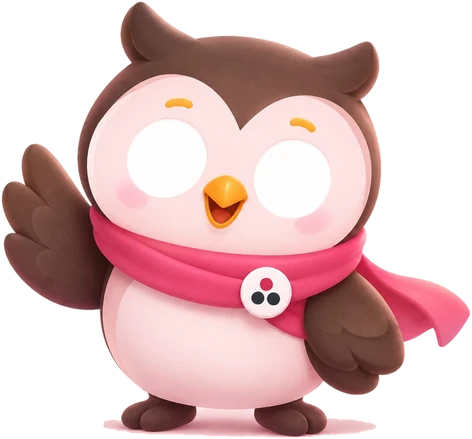
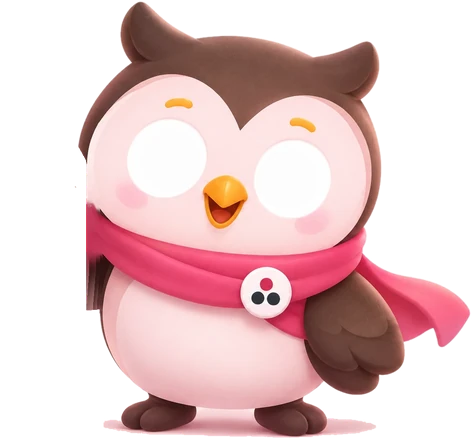
Owl: the raised wing moves (sways, waves, waves back on hover); one welcome on the home page (#144)
The raised wing is cut into its own layer (with the body behind it rebuilt) and pivots at its shoulder: a slow ready sway, a two-beat wave as an idle action and when cheering, a flap on hops, and a wave back when hovered. Home: the grey intro line under "Your queue" is removed so the owl's greeting is the one welcome, and the bubble's second line is body text, not a grey subtitle. Reduced motion: still.

Changed region(s): [[0.0, 0.3257, 0.2373, 0.7107]]

diff --git a/frontend/src/Mascot.tsx b/frontend/src/Mascot.tsx
@@ -1,6 +1,7 @@
 import { useEffect, useId, useRef, useState, type CSSProperties, type ReactNode } from "react";
 
 import owl from "./assets/mascot/owl.webp";
+import wing from "./assets/mascot/owl-wing.webp";
 import { ACTION_MS, idleDelay, lookAt, nextIdleAction, tiltToward, type IdleAction } from "./mascotState";
 
 // The owl image is 943 × 877 with its printed pupils painted out; the live pupils are drawn on top
@@ -13,13 +14,15 @@ const EYES = [
 const PUPIL_R = 51;
 const TRAVEL = 19;
 const LID = "#fde3e3";
+// The raised wing is its own layer (cut from the same image), so it can wave from its shoulder.
+const WING = { x: 0, y: 284, w: 209, h: 344 };
 
 const reducedMotion = () => typeof window !== "undefined" && !!window.matchMedia?.("(prefers-reduced-motion: reduce)").matches;
 
 /**
  * The TriVerity owl. It feels three-dimensional without a 3D model: it tilts toward the cursor with
- * the light shifting across it, casts a soft shadow, blinks, and plays a random idle action every
- * few seconds. Its pupils follow the cursor once it comes within reach. `cheer` (a changing key)
+ * the light shifting across it, casts a soft shadow, blinks, keeps its raised wing gently moving
+ * (and waves with it), and plays a random idle action every few seconds. Its pupils follow the cursor once it comes within reach. `cheer` (a changing key)
  * makes it hop with a burst of sparkles. Decorative: the words it says live in `children`.
  * Reduced motion: still, eyes ahead, no idle actions.
  */
@@ -92,14 +95,22 @@ export function Mascot({ size = 120, cheer, className = "", children, bubbleSide
     lastCheer.current = cheer;
     if (reducedMotion()) return;
     setBurst(count => count + 1);
-    setAction("hop");
-    const timer = window.setTimeout(() => setAction(null), ACTION_MS.hop);
+    setAction("wave");
+    const timer = window.setTimeout(() => setAction(null), ACTION_MS.wave);
     return () => window.clearTimeout(timer);
   }, [cheer]);
 
+  // Hover the owl and it waves back (not while it is already doing something).
+  const busy = useRef(false);
+  busy.current = action !== null;
+  function waveBack() {
+    if (busy.current || reducedMotion()) return;
+    setAction("wave");
+    window.setTimeout(() => setAction(current => current === "wave" ? null : current), ACTION_MS.wave);
+  }
   const height = Math.round(size * VIEW.h / VIEW.w);
   return <div className={`mascot bubble-${bubbleSide} ${className}`} style={{ "--mascot-w": `${size}px`, "--mascot-h": `${height}px` } as CSSProperties}>
-    <div className="mascot-stage" aria-hidden="true">
+    <div className="mascot-stage" aria-hidden="true" onPointerEnter={waveBack}>
       <span className="mascot-shadow" />
       <div ref={body} className={`mascot-body${action ? ` is-${action}` : ""}`}>
         <svg className="mascot-svg" viewBox={`0 0 ${VIEW.w} ${VIEW.h}`} width={size} height={height} focusable="false">
@@ -110,6 +121,7 @@ export function Mascot({ size = 120, cheer, className = "", children, bubbleSide
             </radialGradient>
           </defs>
           <image href={owl} width={VIEW.w} height={VIEW.h} />
+          <g className="mascot-wing"><image href={wing} x={WING.x} y={WING.y} width={WING.w} height={WING.h} /></g>
           {EYES.map((eye, n) => <g key={n} clipPath={`url(#${id}-eye${n})`}>
             <g className="mascot-glance"><g ref={node => { pupils.current[n] = node; }}>
               <circle cx={eye.pupil.x} cy={eye.pupil.y} r={PUPIL_R} fill={`url(#${id}-iris)`} />

diff --git a/frontend/src/styles.css b/frontend/src/styles.css
@@ -2306,6 +2306,18 @@ details.ruling-condition-group[open] > summary::before { transform: rotate(90deg
   .mascot-bubble { animation: mascot-bubble-in .45s .25s cubic-bezier(.3, 1.4, .5, 1) both; transform-origin: left center; }
   .mascot.bubble-left .mascot-bubble { transform-origin: right center; }
 }
+/* The raised wing pivots at its shoulder (image units): a slow "ready" sway, and a real wave. */
+.mascot-wing { transform-box: view-box; transform-origin: 196px 592px; }
+@media (prefers-reduced-motion: no-preference) {
+  .mascot-wing { animation: mascot-wing-ready 2.8s ease-in-out infinite; }
+  .mascot-body.is-wave .mascot-wing { animation: mascot-wing-wave 1.3s cubic-bezier(.4, 0, .3, 1); }
+  .mascot-body.is-hop .mascot-wing { animation: mascot-wing-flap .62s ease-out; }
+  .mascot-body.is-wave { animation: mascot-wave-body 1.3s ease-in-out; }
+}
+@keyframes mascot-wing-ready { 0%, 100% { rotate: 0deg; } 50% { rotate: -4deg; } }
+@keyframes mascot-wing-wave { 0% { rotate: 0deg; } 18% { rotate: -22deg; } 36% { rotate: -6deg; } 54% { rotate: -22deg; } 72% { rotate: -6deg; } 100% { rotate: 0deg; } }
+@keyframes mascot-wing-flap { 30% { rotate: -16deg; } 60% { rotate: 4deg; } 100% { rotate: 0deg; } }
+@keyframes mascot-wave-body { 20%, 60% { rotate: 2deg; } 100% { rotate: 0deg; } }
 @keyframes mascot-breathe { 0%, 100% { scale: 1 1; } 50% { scale: 1.012 1.018; } }
 @keyframes mascot-hop { 0% { translate: 0 0; scale: 1 1; } 18% { translate: 0 2%; scale: 1.06 .94; } 45% { translate: 0 -16%; scale: .97 1.04; } 75% { translate: 0 0; scale: 1.05 .95; } 100% { translate: 0 0; scale: 1 1; } }
 @keyframes mascot-shadow-hop { 45% { scale: .6 .6; opacity: .5; } }
@@ -2316,7 +2328,7 @@ details.ruling-condition-group[open] > summary::before { transform: rotate(90deg
   100% { opacity: 0; transform: rotate(calc(var(--n) * 45deg)) translateY(calc(var(--mascot-w) * -.55)) scale(1); } }
 @keyframes mascot-bubble-in { from { opacity: 0; scale: .85; } }
 .home-greeting .home-hello { font-size: 22px; }
-.home-greeting .home-hello-line { margin-top: 2px; }
+.home-greeting .home-hello-line { margin-top: 2px; color: var(--text); }
 /* The owl's cheer when a case is closed: bottom right, above the sticky bars; dismissible. */
 .mascot-toast { position: fixed; right: var(--space-5); bottom: var(--space-5); z-index: 40; display: flex; align-items: flex-end; gap: var(--space-2); max-width: min(520px, calc(100vw - 32px)); }
 .mascot-toast .mascot { align-items: flex-end; }

diff --git a/frontend/src/mascotState.ts b/frontend/src/mascotState.ts
@@ -2,10 +2,10 @@
 // says. Pure functions, so the behaviour is testable without a browser.
 
 /** Idle actions, played one at a time every few seconds while nothing else is happening. */
-export const IDLE_ACTIONS = ["blink", "double-blink", "hop", "tilt", "wiggle", "glance"] as const;
+export const IDLE_ACTIONS = ["blink", "double-blink", "hop", "tilt", "wiggle", "glance", "wave"] as const;
 export type IdleAction = typeof IDLE_ACTIONS[number];
 /** How long each action's class stays on (ms); blinks are handled by the lids, not a class. */
-export const ACTION_MS: Record<IdleAction, number> = { blink: 180, "double-blink": 460, hop: 620, tilt: 900, wiggle: 700, glance: 1400 };
+export const ACTION_MS: Record<IdleAction, number> = { blink: 180, "double-blink": 460, hop: 620, tilt: 900, wiggle: 700, glance: 1400, wave: 1300 };
 
 /** The next idle action: never the same one twice in a row. `random` is in [0, 1). */
 export function nextIdleAction(previous: IdleAction | null, random: number): IdleAction {

diff --git a/frontend/src/Home.tsx b/frontend/src/Home.tsx
@@ -75,7 +75,6 @@ export function Home({ rows, holds = [], appealsWaiting, missing, onDismissMissi
           <Icon name="scales" />{runAllProgress?.running ? `Running ${runAllProgress.total} cases…` : "Run all"}
         </button>}
       </div>
-      <p className="home-intro">Ride disputes waiting for review. Agents gather evidence and argue both sides, policy rules decide, and you approve.</p>
     </div>
     {ranSummary && <p className="home-run-summary" role="status"><Icon name="queue" />{ranSummary}</p>}
     {GUIDED_DEMO && <section className={`home-start${demoOpen ? " open" : ""}`} aria-labelledby="home-start-title">
